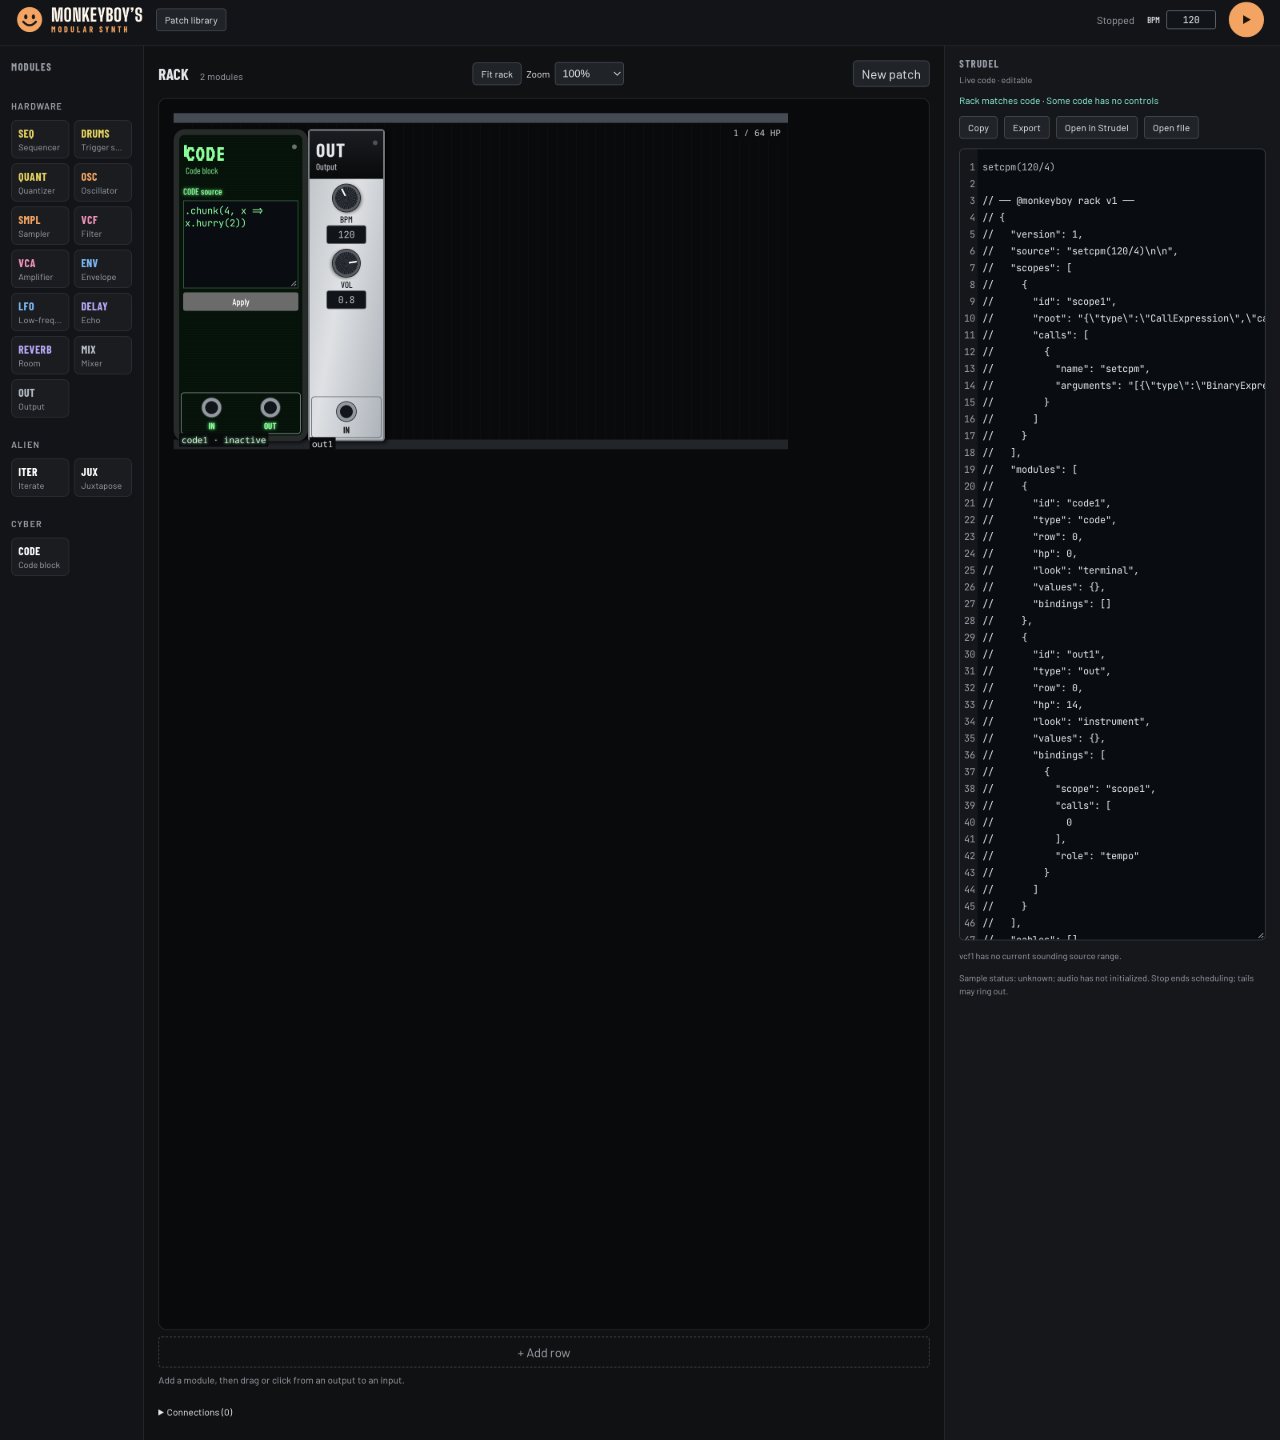
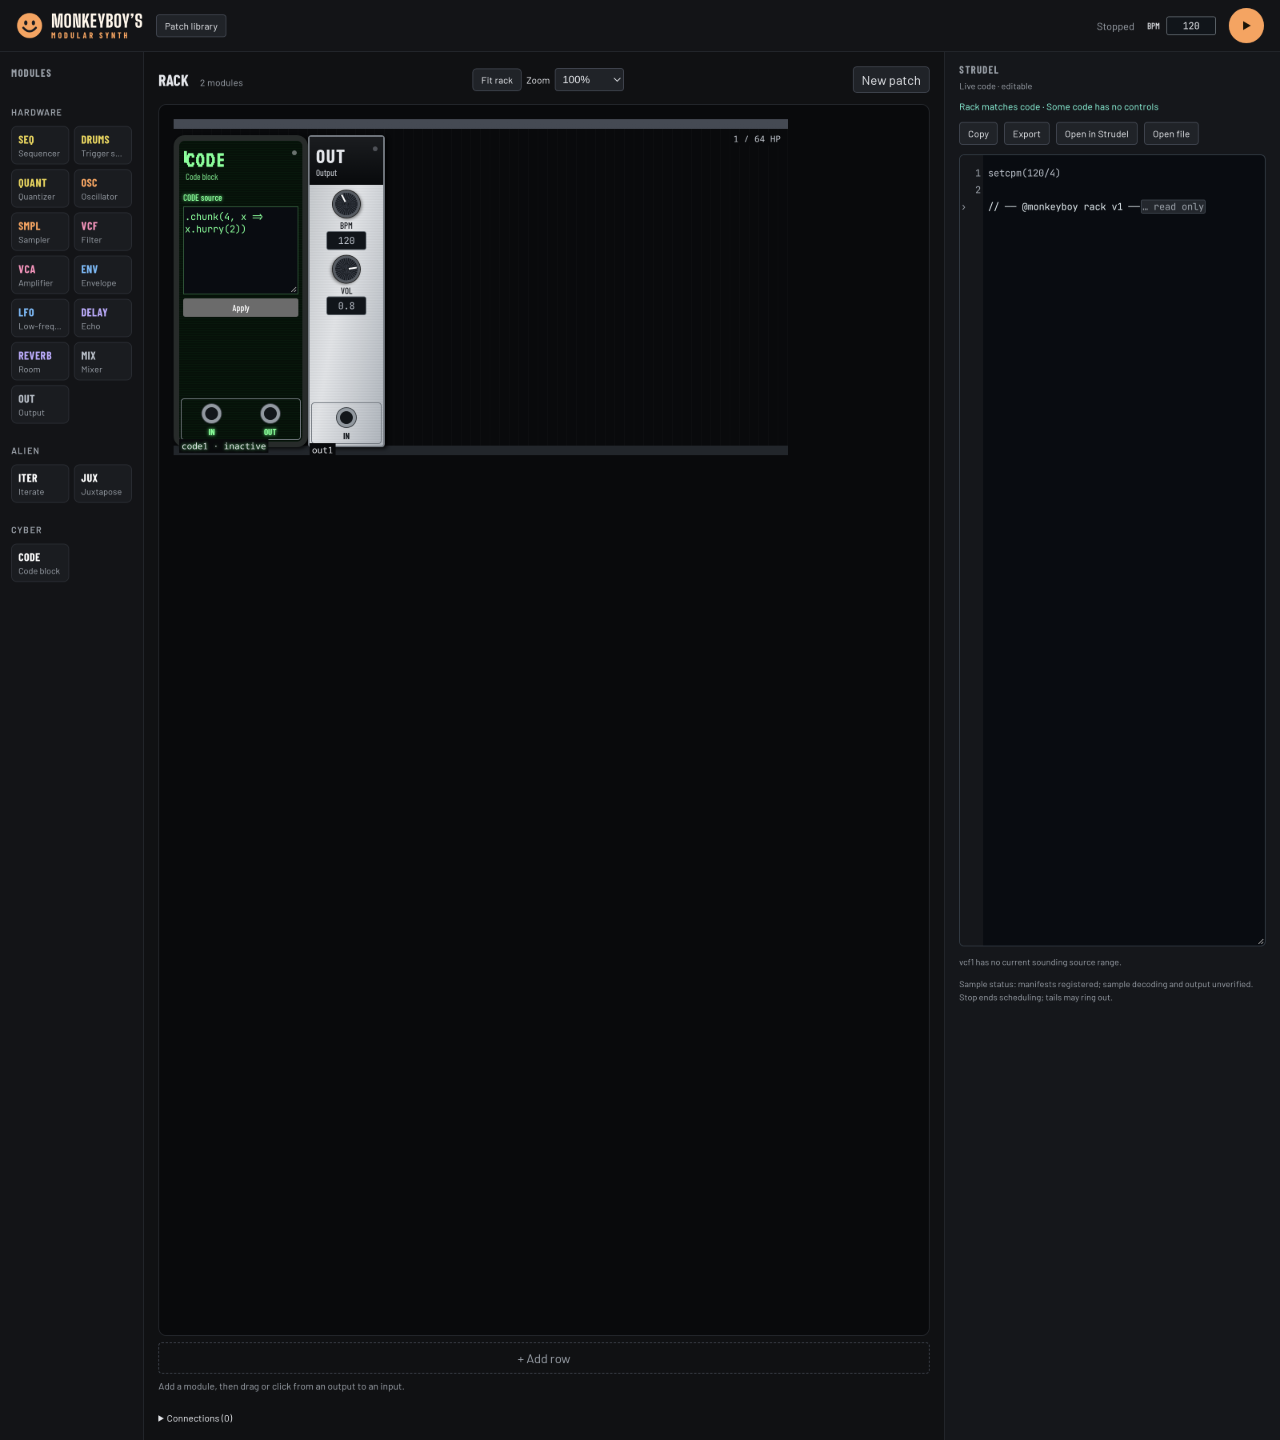
Record verification on the latest workspace editor

diff --git a/docs/rack-feel-verification.md b/docs/rack-feel-verification.md
@@ -8,7 +8,7 @@ owns the behavior; this is dated evidence.
 ## Static and deterministic proof
 
 `npm ci` and `npm run check` passed: formatting, skill integrity, lint,
-732 passing Vitest tests (17 existing expected failures), 40 guardrail tests,
+776 passing Vitest tests, 40 guardrail tests,
 TypeScript and production build. The focused numeric behavior test first failed
 because keyboard stepping was absent, then passed with logarithmic/fine cutoff,
 detents, clamping, range endpoints and reset. Existing generation, source
@@ -51,6 +51,11 @@ width or saved-layout format changed.
   The seven cable endpoints remain aligned after the edit. A native palette drag
   at Fit places ITER on the second rail at HP 32. Switching all hardware to
   Vintage lab moves the jacks to the top and retains aligned cables.
+
+After rebasing onto `9ef4a21`, the full gate and 183-observation browser matrix
+passed again. A native keyboard edit during playback changed 964→971 Hz while
+retaining “Pattern scheduled” and nonzero PCM (RMS 0.00549). Screenshots were
+recaptured with the current folded-metadata editor.
 
 The private online design canvas was not accessed; the repository's supplied
 PNG/HTML board exports were available as references.
